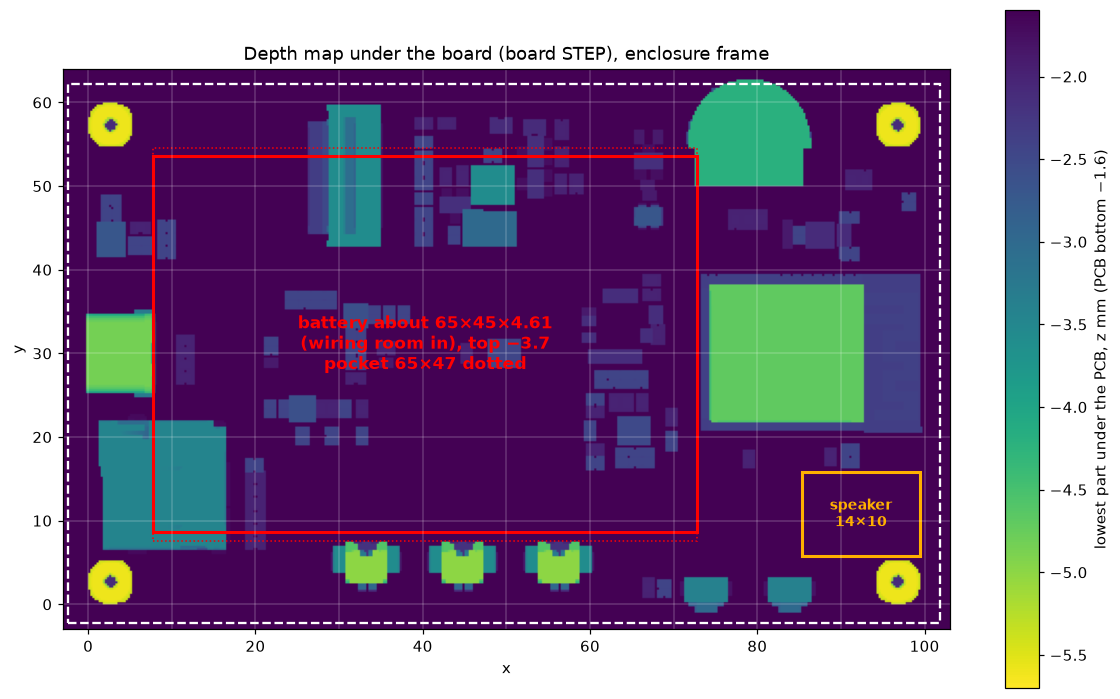
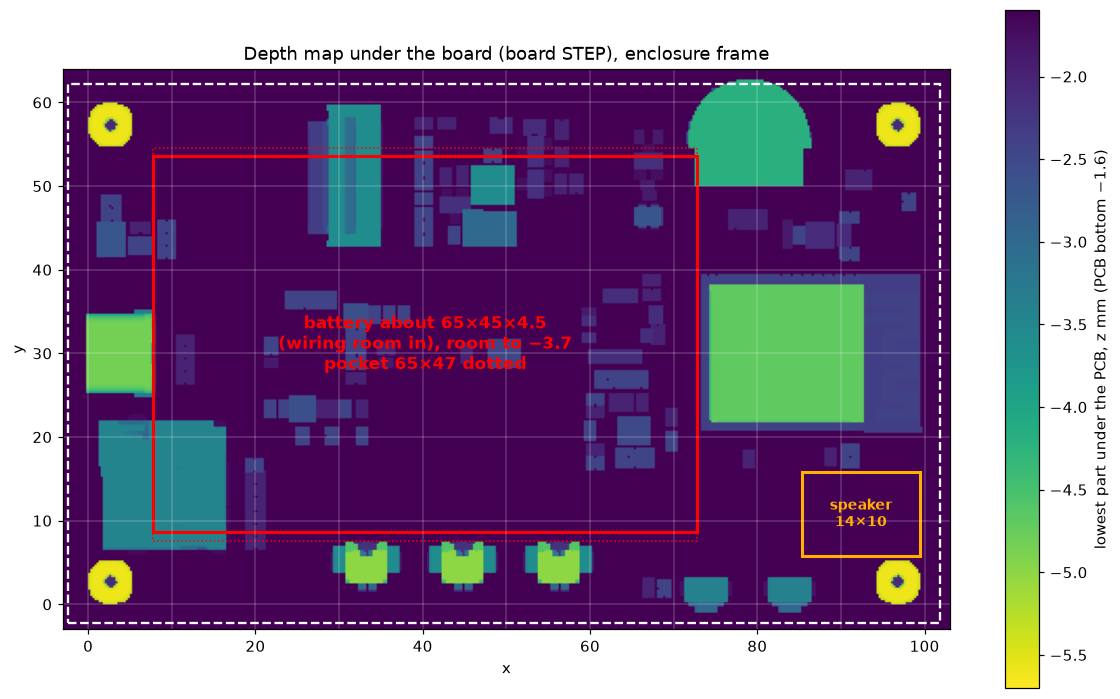
Enclosure concept: the cell is about 4.5 thick; the tub keeps v0.5's height
The tub gives the cell no more height than v0.5: 4.61 (batt_t) from the pocket floor to z -3.7, so
a 4.5 cell has 0.21 under the display connector. The pictures draw it 4.5; the parts don't change.

Claude-Session: https://claude.ai/code/session_01MC9erEBd9igvhpryGEVgpB

Changed region(s): [[0.25, 0.4506, 0.5, 0.5107]]

diff --git a/enclosure/concepts/flatter-back/build.py b/enclosure/concepts/flatter-back/build.py
@@ -30,12 +30,12 @@ Z_BACK = -9.11            # v0.6's flat back, set by the battery
 Z_FIELD = -7.2            # standoff_z - back_t: set by the screws (and the USB-C opening + 1.2)
 FLOOR = 1.2
 Z_FTOP = Z_FIELD + FLOOR  # -6.0
-# The battery: about 65 × 45 with room for the wiring out of its side, 4.61 thick, its top at z
-# -3.7 as in v0.6. The pocket is all the room the board leaves at that height: 65.0 long between
+# The battery: about 65 × 45 with room for the wiring out of its side, about 4.5 thick. The tub
+# gives it no more height than v0.5 does: 4.61 (batt_t) over the pocket floor, to z -3.7. The pocket is all the room the board leaves at that height: 65.0 long between
 # the USB-C socket's pins (x 7.86, z -3.62) and the thumbwheel's body (x 72.8, for y over 50.4),
 # 47.0 wide between the MX1.25 headers and the thumbwheel.
 POCKET = (7.8, 7.6, 72.8, 54.6)
-BATT = (7.8, 8.6, 72.8, 53.6, 4.61)    # the 65 × 45 envelope in it, centred across, and its thickness
+BATT = (7.8, 8.6, 72.8, 53.6, 4.5)     # the 65 × 45 envelope in it, centred across, and its thickness
 Z_POCKET = -8.31
 # the hatch outline (the seam, and the tub's outline) is the pocket and 2.6 round it, chamfer 3
 BCX, BCY = (POCKET[0] + POCKET[2]) / 2, (POCKET[1] + POCKET[3]) / 2

diff --git a/enclosure/concepts/flatter-back/depthmap.py b/enclosure/concepts/flatter-back/depthmap.py
@@ -97,7 +97,7 @@ plt.colorbar(im, label="lowest part under the PCB, z mm (PCB bottom −1.6)")
 ax.add_patch(Rectangle((-2.4, -2.25), 104.3, 64.5, fill=False, ec="w", lw=1.5, ls="--"))
 ax.add_patch(Rectangle((7.8, 8.6), 65.0, 45.0, fill=False, ec="r", lw=2))     # build.py's BATT
 ax.add_patch(Rectangle((7.8, 7.6), 65.0, 47.0, fill=False, ec="r", lw=1, ls=":"))  # and its POCKET
-ax.text(40.3, 31.1, "battery about 65×45×4.61\n(wiring room in), top −3.7\npocket 65×47 dotted", color="r", ha="center", va="center", fontsize=11, weight="bold")
+ax.text(40.3, 31.1, "battery about 65×45×4.5\n(wiring room in), room to −3.7\npocket 65×47 dotted", color="r", ha="center", va="center", fontsize=11, weight="bold")
 # the speaker (build.py's SPK)
 ax.add_patch(Rectangle((85.4, 5.8), 14.0, 10.0, fill=False, ec="#ffb000", lw=2))
 ax.text(92.4, 10.8, "speaker\n14×10", color="#ffb000", ha="center", va="center", fontsize=9, weight="bold")

diff --git a/enclosure/concepts/flatter-back/README.md b/enclosure/concepts/flatter-back/README.md
@@ -81,18 +81,19 @@ case is three: back tray, battery tub and front bezel.
 
 | | |
 | --- | --- |
-| Cell | 1500 mAh 454261 pouch, about 65 long and 45 wide with room for the wiring out of its side, 4.61 thick (`batt_t`) |
+| Cell | 1500 mAh 454261 pouch, about 65 long and 45 wide with room for the wiring out of its side, about 4.5 thick |
 | Pocket | 65.0 × 47.0 (x 7.8 to 72.8, y 7.6 to 54.6), floor at z −8.31: all the room the board leaves at the cell's height |
 | In the pocket | none to spare along it, 1.0 a side across |
 | Ends | 0.12 to the USB-C socket's shell, and the thumbwheel's body at the other end (x 72.8, for y over 50.4) |
+| Height | no more than v0.5 gives: 4.61 (`batt_t`) from the pocket floor to z −3.7, so 0.11 over a 4.5 cell |
 | Under the cell | 0.8 of skin, the tub's face at z −9.11. The frog takes 0.2 of it, so 0.6 is under the frog |
-| Over the cell | 0.10 to the display FPC connector (z −3.60), as in v0.6, and 0.08 under the tips of the USB-C socket's pins at the very end. A swelling pouch has only that |
+| Over the cell | 0.10 over the room to the display FPC connector (z −3.60), as in v0.6: 0.21 over a 4.5 cell, which also passes 0.19 under the tips of the USB-C socket's pins at its very end |
 | Pocket walls | 2.31 up the cell's sides (to the floor top, z −6.0), 2.45 thick at the seam |
 | Latch beams | 1.9 from the cell's long sides. They flex 0.5 toward it going in, before the battery is |
 | Tub, outside | 69.9 × 51.9 at the seam, 66.4 × 48.4 at its face, 3.11 tall (4.51 at the latches) |
 
-The length is at the limit. With its top at z −3.7, the cell can't pass under the USB-C socket or
-the thumbwheel, and the board leaves 65.0 between them wherever a cell 45 wide sits; a longer one
+The length is at the limit. At that height the cell can't pass under the USB-C socket or the
+thumbwheel, and the board leaves 65.0 between them wherever a cell 45 wide sits; a longer one
 doesn't fit at this height at all. If it's 62.5, as the enclosure README has it measured with its
 protection board, there's 2.5 to spare. Either way it's more than v0.6's pocket (63.5 × 43) takes,
 so measure the cell's length, and which side its wiring leaves, before a print.
